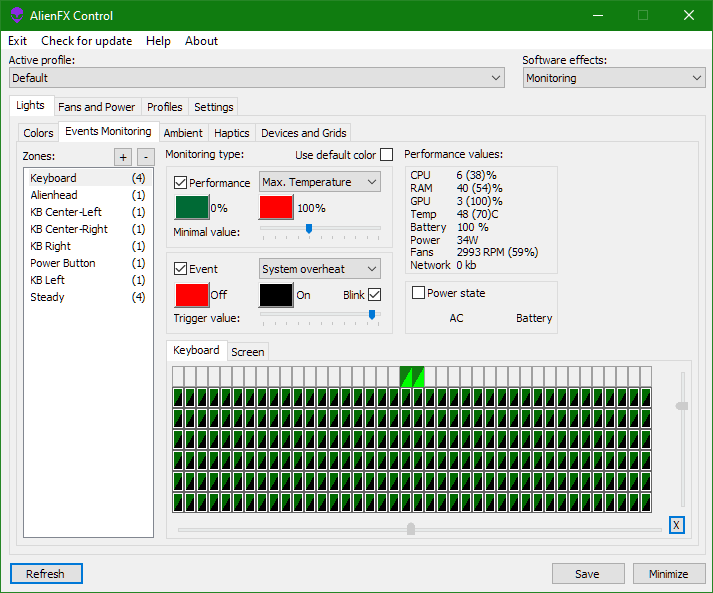
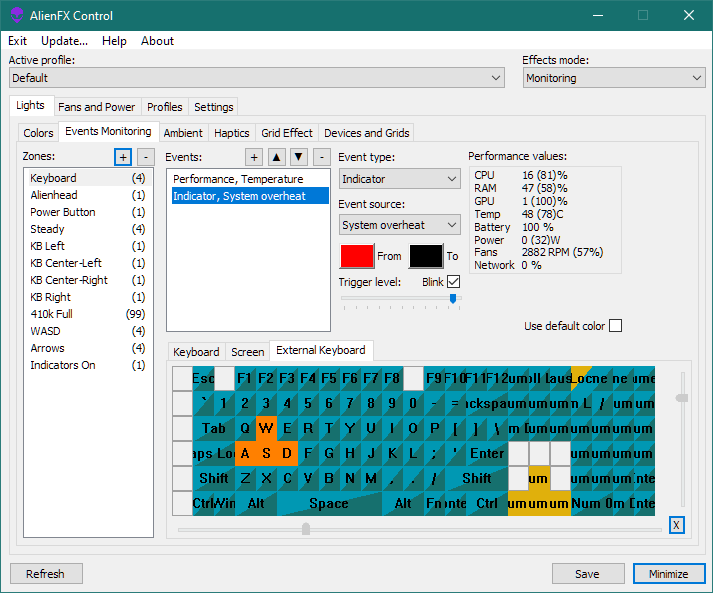
Release 7.4.0 preparation, doc updates.

diff --git a/Doc/alienfx-gui.md b/Doc/alienfx-gui.md
@@ -89,41 +89,43 @@ Please keep in mind - defining zone as "Gradient" disables hardware color effect
 !["Events Monitoring" tab](https://github.com/T-Troll/alienfx-tools/blob/master/Doc/img/gui-monitoring-6.png?raw=true)
 
 This tab designed to control "Monitoring" software effect - it change zone colors based on system states and events - like power source changes, system load, temperatures.  
-There are some different monitoring types and modes available:  
 
-"Power State"  
-Zone will act as software power button, and reflect current power mode - AC, battery, charge, low battery level.  
+For each zone, you can assign the chain of effects applied to it.  
+For each effect in chain, color from previous effect used as a source value, then re-calculated using effect settings. Resulted color after all chain calculated applied to the zone lights.  
+In case "Use default color" check box enabled, first color for chain will be taken from "Color" tab, otherwise it will be taken from the "From" value of the first effect in chain.
+
+You can use "+" and "-" buttons to add/remove effect into the chain, and arrow buttons to move currently selected effect earlier or later.
+
+For each effect, 3 different monitoring types available:
+
+"Power"  
+Effect will act as software power button, and reflect current power mode - AC or battery.
 
 "Performance"  
-Zone will reflect a performance indicator, available indicators are:
+Effect will reflect selected performance indicator, available indicator sources are:
 - CPU load - CPU load color mix from 0% ("Idle") to 100% ("Full load")
-- RAM load - Zone color reflect used RAM percentage
+- RAM load - Reflect used RAM percentage
 - GPU load - Current GPU utilization percentage (top one across all GPUs if more, then one present GPUs into the system).
 - Storage load - It's not exactly a load, but IDLE time. If you HDD/SSD not load - it's "idle", 100% busy - full load, and mix between.
 - Network load - Current network traffic value against maximal value detected (across all network adapters into the system).
 - Max. temperature - Maximal temperature in Celsius degree across all temperature sensors detected into the system.
-- Battery level - Battery charge level in percent - 2nd color for full battery, 1st one for completely drained.
+- Battery level - Battery charge level in percent - "From" color for full battery, "To" color for completely drained.
 - Max. Fan RPM - Highest fan RPM (in percent of maximum) across all system fans. This indicator will only works if "Fan control" is enabled in "Settings".
-- Power consumption - Current system power drain level. This indicator will only works if "ESID sensors" enabled at "Settings".
+- Power consumption - Current system power drain level. This indicator will only works if "BIOS sensors" enabled at "Settings".
 
-You can use "Minimal value" slider to define zone of no reaction - for example, for temperature it's nice to set it to the room temperature - only heat above it will change colour.  
-This monitoring type support "Gauge" setting for zone, acting as a peak indicator for value.
+You can use "Trigger level" slider to define value of no reaction - for example, for temperature it's nice to set it to the room temperature - only heat above it will change color.  
+For gauge-enabled zones, performance effect acts as a peak indicator - lights below current value marked as "To" color, lights above as "From", active lights (fits value) use mixed color in between.
 
 "Event"  
-Zone color switches between on and off values if system event occurs:
+Effect color switches between "From" and "To" values in case system event occurs:
 - Storage activity - Switch zone color every disk activity event (Storage IDLE above zero).
 - Network activity - Switch zone color if any network traffic detected (across all adapters).
-- System overheat - Switch zone color if system temperature above trigger value.
-- Out of memory - Switch zone color if memory usage above trigger value.
-- Low battery - Switch light if battery charged below trigger value.
-- Language indicator - Light will have "off" color if first input language selected, and "on" color if any other selected.
+- System overheat - Switch zone color if system temperature above "Trigger level" value.
+- Out of memory - Switch zone color if memory usage above "Trigger level" value.
+- Low battery - Switch light if battery charged below "Trigger level" value.
+- Language indicator - Light will have "From" color if first input language selected, and "To" color if any other selected.
 
-Default trigger value is 95, you can change it using corresponding slider.  
-  "Blink" check box switch triggered value to blink between on-off colours about 5 times per second.
-
-"Use default color" check box, if activated, always use settings from "Colors" tab as a first color.
-
-You can mix different monitoring type at once, f.e. different colours for same zone for both CPU load and system overheat event. In this case Event colour always override Performance one then triggered, as well as both override Power state.
+"Blink" check box switch triggered value to blink between from-to colors about 5 times per second.
 
 ### Ambient tab
 
